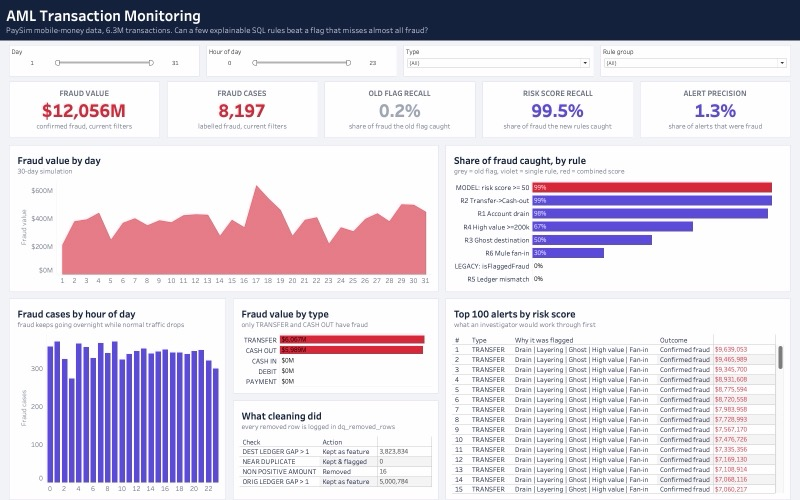
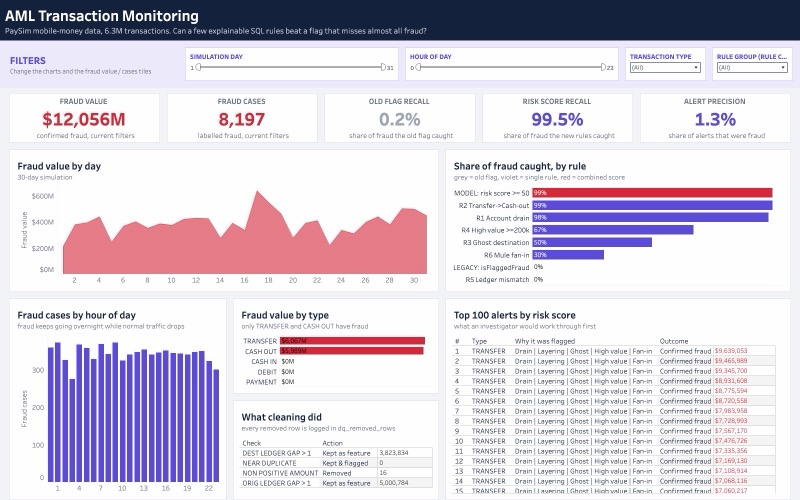
AML card: screenshot of the updated Tableau Public dashboard

diff --git a/index.html b/index.html
@@ -208,8 +208,8 @@ document.documentElement.classList.add('js');
     <div class="deck">
         <article class="project card" id="p-aml" data-tags="sql python tableau">
           <figure class="project-media">
-            <img src="assets/work/aml-monitoring.jpg" srcset="assets/work/aml-monitoring-480w.jpg 480w, assets/work/aml-monitoring-800w.jpg 800w, assets/work/aml-monitoring.jpg 1600w" sizes="(max-width: 899px) 100vw, 56vw" alt="Tableau dashboard, AML Transaction Monitoring, with day, hour, transaction type and rule group filters: $12,056M fraud value, 8,197 fraud cases, old flag recall 0.2% against 99.5% for the risk score, fraud by day, hour and type, share of fraud caught by rule, a data cleaning summary and the top 100 alerts" width="1600" height="1000" loading="lazy">
-            <figcaption class="media-note">Latest project. Screenshot of the Tableau dashboard; the workbook is in the repository.</figcaption>
+            <img src="assets/work/aml-monitoring.jpg" srcset="assets/work/aml-monitoring-480w.jpg 480w, assets/work/aml-monitoring-800w.jpg 800w, assets/work/aml-monitoring.jpg 1600w" sizes="(max-width: 899px) 100vw, 56vw" alt="Tableau dashboard, AML Transaction Monitoring, with filters for simulation day, hour of day, transaction type and rule group: $12,056M fraud value, 8,197 fraud cases, old flag recall 0.2% against 99.5% for the risk score, fraud by day, hour and type, share of fraud caught by rule, a data cleaning summary and the top 100 alerts" width="1600" height="1000" loading="lazy">
+            <figcaption class="media-note">Latest project. Screenshot of the live Tableau Public dashboard; the workbook is in the repository.</figcaption>
           </figure>
           <div class="card-body">
             <h3>AML transaction monitoring in SQL</h3>
